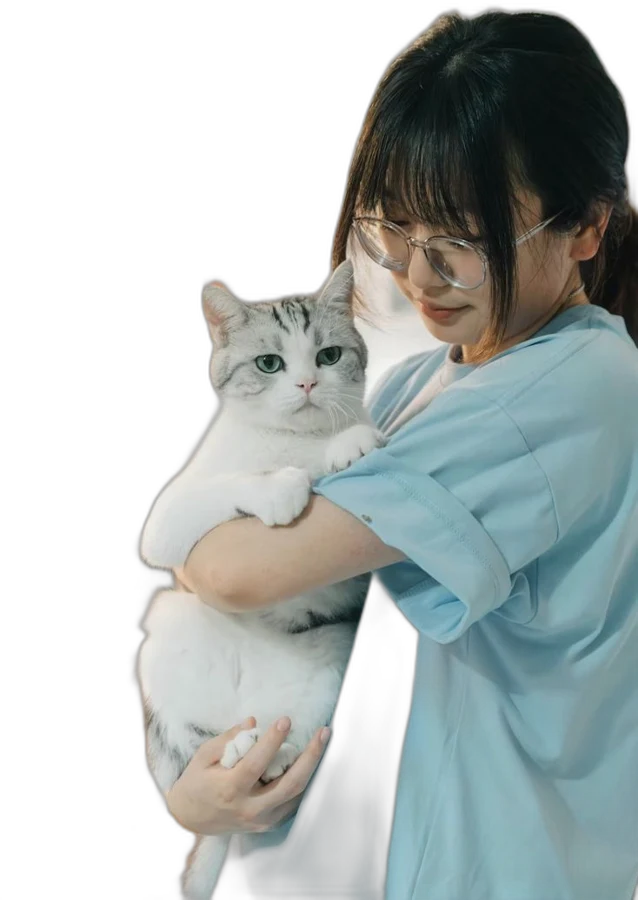
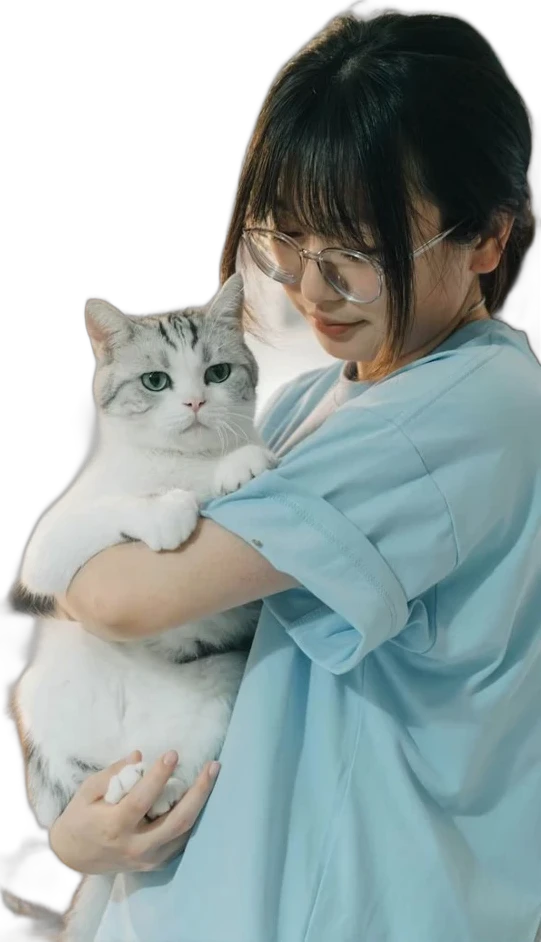
Foto ritagliate bene: solo volti interi (veterinario con lente, ragazza con gatto, chihuahua), soggetti centrati e che escono dalla forma
Claude-Session: https://claude.ai/code/session_01YVhXqZQFiynUUQa1vgPU8R

diff --git a/src/app/[lang]/[country]/page.tsx b/src/app/[lang]/[country]/page.tsx
@@ -45,7 +45,7 @@ export default async function OwnerHome({ params }: P) {
           </form>
         </div>
         <div className="sparkles" aria-hidden>{["s1","s2","s3","s4","s5","s6","s7","s8"].map((k) => <i key={k} className={`spk ${k}`} />)}</div>
-        <div className="collage" aria-hidden><span className="pop pop-a"><img src="/photos/cut/vet-pomeranian.webp" alt="" /></span><span className="pop pop-b"><img src="/photos/cut/girl-cat.webp" alt="" /></span><span className="fb b1"><VI n="heartPulse" size={34} /></span><span className="fb b2"><VI n="paw" size={32} /></span><span className="fb b3"><VI n="syringe" size={30} /></span><span className="fb b4"><VI n="bone" size={28} /></span></div>
+        <div className="collage" aria-hidden><span className="pop pop-a"><img src="/photos/cut/vet-exam.webp" alt="" /></span><span className="pop pop-b"><img src="/photos/cut/girl-cat.webp" alt="" /></span><span className="fb b1"><VI n="heartPulse" size={34} /></span><span className="fb b2"><VI n="paw" size={32} /></span><span className="fb b3"><VI n="syringe" size={30} /></span><span className="fb b4"><VI n="bone" size={28} /></span></div>
       </section>
       <ul className="trust">{t.trust.map((x, i) => { return <li key={i}><span className="ico" aria-hidden><VI n={TI[i]} size={34} /></span>{x}</li>; })}</ul>
       <section className="focus" aria-labelledby="focus-h"><h2 id="focus-h" className="sr-only">{F.title}</h2><div className="focus-grid">

diff --git a/src/app/globals.css b/src/app/globals.css
@@ -973,5 +973,10 @@ body::before{background:url(/decor/icons.svg) center / cover no-repeat,linear-gr
 /* v40 pop images: smaller, bottom trimmed to the circle so the subject sits in the shape and the head breaks out */
 .pop>img,.collage .pop>img{height:100%!important;clip-path:polygon(-10% -60%,110% -60%,110% 50%,109.3% 57.8%,107.1% 65.5%,103.5% 72.7%,98.5% 79.4%,92.4% 85.4%,85.3% 90.5%,77.2% 94.6%,68.5% 97.6%,59.4% 99.4%,50.0% 100.0%,40.6% 99.4%,31.5% 97.6%,22.8% 94.6%,14.7% 90.5%,7.6% 85.4%,1.5% 79.4%,-3.5% 72.7%,-7.1% 65.5%,-9.3% 57.8%,-10% 50%)!important}
 .collage .pop-a>img{height:104%!important}
-.pop-a>img{-webkit-mask-image:linear-gradient(180deg,transparent,#000 16%);mask-image:linear-gradient(180deg,transparent,#000 16%)}
-.pop-b>img{-webkit-mask-image:linear-gradient(90deg,#000 78%,transparent);mask-image:linear-gradient(90deg,#000 78%,transparent)}
+.pop-a>img{-webkit-mask-image:linear-gradient(90deg,#000 90%,transparent);mask-image:linear-gradient(90deg,#000 90%,transparent)}
+.pop-b>img{-webkit-mask-image:linear-gradient(90deg,#000 90%,transparent);mask-image:linear-gradient(90deg,#000 90%,transparent)}
+
+/* v41 composition: subjects centred in their shape and larger, so heads are whole and the shape stays balanced */
+.pop>img,.collage .pop>img{height:108%!important}
+.collage .pop-a>img{height:116%!important}
+.pop-a>img,.pop-b>img{-webkit-mask-image:none!important;mask-image:none!important}

diff --git a/src/components/PhotoStrip.tsx b/src/components/PhotoStrip.tsx
@@ -1,8 +1,8 @@
 /** Decorative strip of cut-out photos on coloured shapes (files in /public/photos/cut). */
 const SETS: Record<string, string[]> = {
-  a: ["vet-chihuahua", "girl-cat", "vet-pomeranian"],
-  b: ["vet-pomeranian", "vet-chihuahua", "girl-cat"],
-  c: ["girl-cat", "vet-pomeranian", "vet-chihuahua"],
+  a: ["vet-chihuahua", "girl-cat", "vet-exam"],
+  b: ["vet-exam", "vet-chihuahua", "girl-cat"],
+  c: ["girl-cat", "vet-exam", "vet-chihuahua"],
 };
 export function PhotoStrip({ set = "a" }: { set?: keyof typeof SETS | string }) {
   return <div className="photo-strip" aria-hidden>{(SETS[set] ?? SETS.a).map((n) => <span key={n} className="pop"><img src={`/photos/cut/${n}.webp`} alt="" loading="lazy" /></span>)}</div>;
